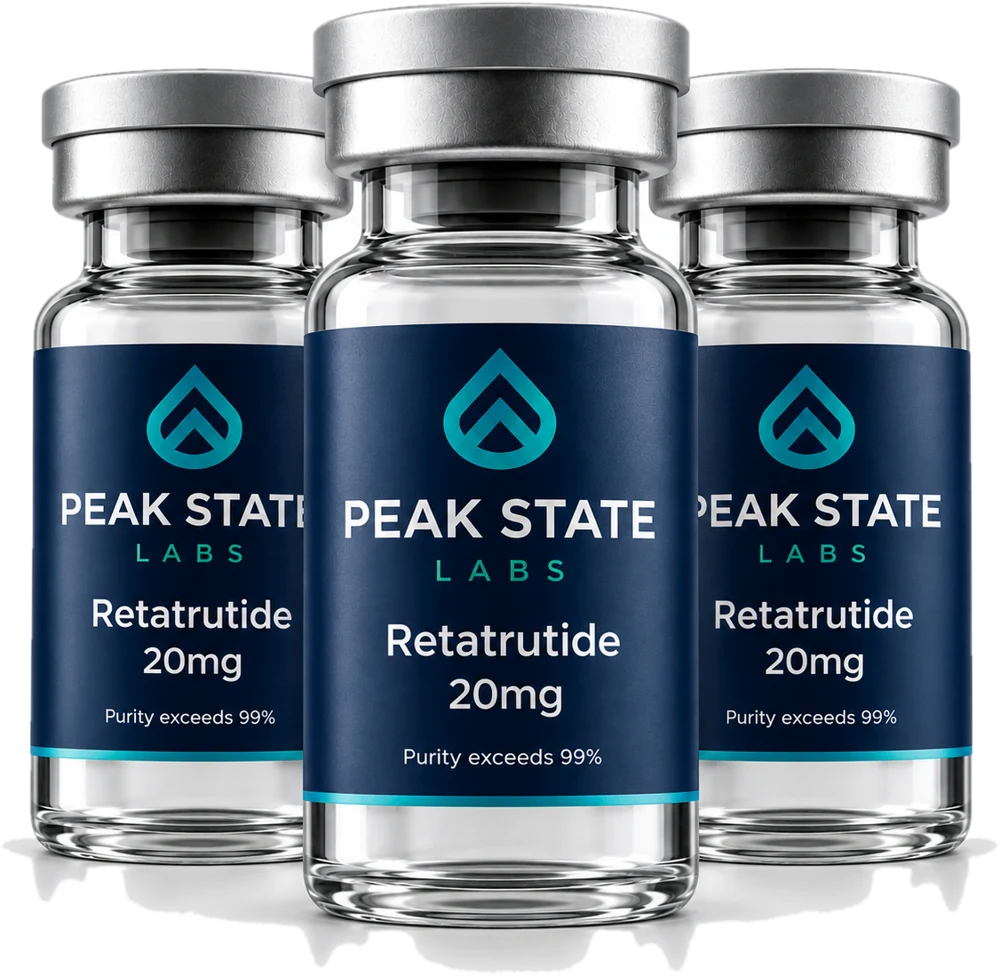
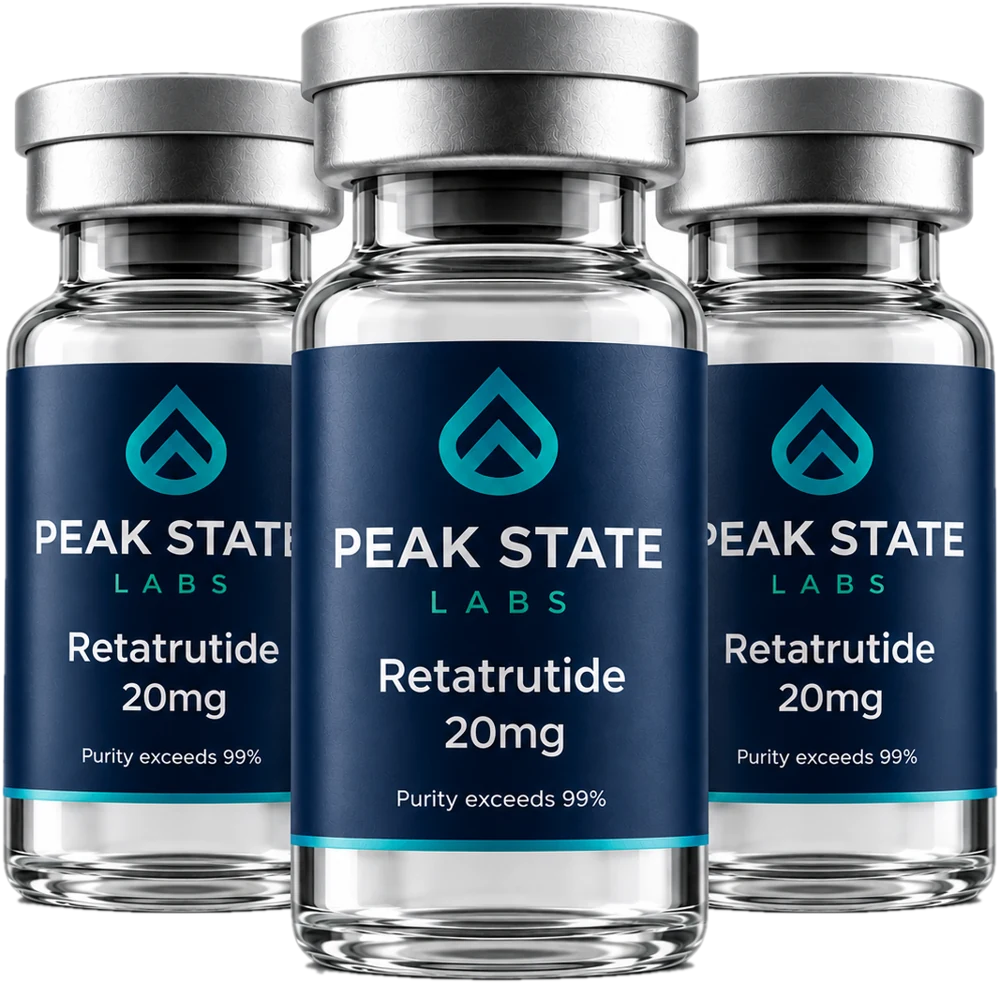
Sale polish: add-on pricing, weeks of supply, clean SHRED hero
- Add-on box: each product shows its regular vs sale price, plus "Normally
  $X — adds just $Y to your stack" and the tier bump it causes.
- Weeks of supply everywhere for non-Reta vials (1 vial = 5 weeks): stack
  sizes, add-ons, pillar cards, /buildyourstack, POWER CUT add-ons.
- Drop the redundant "together in one vial" note.
- POWER CUT tile reads "Up to 60% off · See the deal".
- SHRED hero: cut-out without the floor shadow.

Claude-Session: https://claude.ai/code/session_01PyqaBPZLjAM4nEpsBPAk2n

diff --git a/app/components/sale/StackBuyBox.tsx b/app/components/sale/StackBuyBox.tsx
@@ -4,17 +4,17 @@ import { useState } from "react";
 import { useCart } from "@/app/singles/cart/CartContext";
 import { CrossSellStrip } from "@/app/singles/cart/CrossSellStrip";
 import { formatUsd } from "@/app/lib/money";
-import { nextSaleStep, nextStepAction, SALE_NAME } from "@/app/lib/sale";
+import { nextSaleStep, nextStepAction, pctOff, SALE_NAME } from "@/app/lib/sale";
 import { useSaleStatus, type SaleStatus } from "@/app/lib/useSaleStatus";
 import { trackAddToCartInPostHog } from "@/app/lib/trackAddToCart";
 import {
   ADDONS,
-  IS_BLEND,
   SHORT_NAME,
   STACKS,
   addonProducts,
   linesFor,
   priceLines,
+  supplyFor,
   product,
   type AddonKey,
   type Line,
@@ -54,7 +54,13 @@ export function StackBuyBox({
   const next = sale.live
     ? nextSaleStep(lines.map((l) => ({ priceId: product(l.slug).priceId, quantity: l.quantity })))
     : null;
-  const addonPrice = priceLines(linesFor([], sets, extra), false).full;
+  // What the add-on really costs: the order with it minus the order without
+  // it (adding vials can also raise the discount on the rest of the stack).
+  const without = priceLines(linesFor(stack.items, sets), sale.live);
+  const withExtra = priceLines(linesFor(stack.items, sets, extra), sale.live);
+  const addonFull = priceLines(linesFor([], sets, extra), false).full;
+  const addsCents = withExtra.price - without.price;
+  const isSingleProduct = stack.items.length === 1;
 
   function addToCart() {
     for (const l of lines) {
@@ -148,7 +154,10 @@ export function StackBuyBox({
                       {s.label}
                     </span>
                     <span className="mt-0.5 block text-xs font-medium text-[var(--primary)]/55">
-                      {p.vials} vial{p.vials === 1 ? "" : "s"} · ~{s.supply}
+                      {isSingleProduct
+                        ? `${s.sets} vial${s.sets === 1 ? "" : "s"}`
+                        : `${s.sets} vial${s.sets === 1 ? "" : "s"} of each`}{" "}
+                      · lasts {s.supply}
                     </span>
                   </div>
                   <div className="flex flex-shrink-0 flex-col items-end text-right sm:mt-3 sm:items-start sm:text-left">
@@ -183,27 +192,46 @@ export function StackBuyBox({
               />
               <span className="flex-1">
                 <span className="block text-sm font-extrabold text-[var(--primary)]">
-                  {ADDONS[addon].emoji} Add for {ADDONS[addon].label.toLowerCase()}:
+                  {ADDONS[addon].emoji} Add for {ADDONS[addon].label.toLowerCase()}
                 </span>
-                <span className="mt-1.5 block space-y-1">
-                  {extra.map((e) => (
-                    <span key={e} className="block text-sm text-[var(--primary)]">
-                      <span className="mr-1.5 inline-block rounded-md bg-[var(--primary)] px-1.5 py-0.5 text-xs font-extrabold text-white">
-                        {sets} vial{sets === 1 ? "" : "s"}
-                      </span>
-                      <span className="font-bold">{SHORT_NAME[e]}</span>{" "}
-                      <span className="text-[var(--primary)]/60">({product(e).dose.replace(/ blend$/i, "")})</span>
-                      {IS_BLEND[e] && (
-                        <span className="block pl-0.5 text-xs font-semibold text-[var(--accent-dark)]">
-                          {IS_BLEND[e]}
+                <span className="block text-xs font-bold text-[var(--accent-dark)]">
+                  Lasts {supplyFor(extra[0], sets)}
+                  {extra.length > 1 ? ` · ${sets} vial${sets === 1 ? "" : "s"} of each` : ""}
+                </span>
+                <span className="mt-2 block space-y-1.5">
+                  {extra.map((e) => {
+                    const full = product(e).priceCents * sets;
+                    return (
+                      <span key={e} className="flex items-baseline justify-between gap-2 text-sm text-[var(--primary)]">
+                        <span>
+                          <span className="mr-1.5 inline-block rounded-md bg-[var(--primary)] px-1.5 py-0.5 text-xs font-extrabold text-white">
+                            {sets} vial{sets === 1 ? "" : "s"}
+                          </span>
+                          <span className="font-bold">{SHORT_NAME[e]}</span>{" "}
+                          <span className="text-[var(--primary)]/60">
+                            ({product(e).dose.replace(/ blend$/i, "")})
+                          </span>
                         </span>
-                      )}
-                    </span>
-                  ))}
+                        <span className="whitespace-nowrap tabular-nums">
+                          {withExtra.pct > 0 && (
+                            <span className="mr-1 text-xs text-[var(--primary)]/40 line-through">
+                              {formatUsd(full)}
+                            </span>
+                          )}
+                          <span className="font-extrabold">{formatUsd(pctOff(full, withExtra.pct))}</span>
+                        </span>
+                      </span>
+                    );
+                  })}
                 </span>
-                <span className="mt-1.5 block text-xs font-medium text-[var(--primary)]/65">
-                  {formatUsd(addonPrice)} before discount — and it pushes your
-                  whole order to a bigger discount.
+                <span className="mt-2.5 block rounded-xl bg-white px-3 py-2 text-sm text-[var(--primary)]">
+                  Normally <span className="line-through">{formatUsd(addonFull)}</span> — adds just{" "}
+                  <span className="font-extrabold text-emerald-700">{formatUsd(addsCents)}</span> to your stack
+                  {withExtra.pct > without.pct && (
+                    <span className="block text-xs font-semibold text-emerald-700">
+                      It also bumps your whole order from {without.pct}% to {withExtra.pct}% off.
+                    </span>
+                  )}
                 </span>
               </span>
             </label>

diff --git a/app/components/sale/StackPage.tsx b/app/components/sale/StackPage.tsx
@@ -17,11 +17,11 @@ import { formatUsd } from "@/app/lib/money";
 import { SALE_NAME } from "@/app/lib/sale";
 import { getSaleStatus } from "@/app/lib/salePhaseServer";
 import {
-  IS_BLEND,
   PRODUCT_CUTOUT,
   SHORT_NAME,
   STACKS,
   isAddonKey,
+  supplyFor,
   priceLines,
   linesFor,
   type StackSlug,
@@ -185,9 +185,9 @@ export async function StackPage({
                           </p>
                         )}
                         <h3 className="mt-1 text-xl font-bold text-[var(--primary)]">{SHORT_NAME[i]}</h3>
-                        {IS_BLEND[i] && (
-                          <p className="text-xs font-semibold text-[var(--accent-dark)]">{IS_BLEND[i]}</p>
-                        )}
+                        <p className="text-xs font-semibold text-[var(--primary)]/55">
+                          1 vial = {supplyFor(i, 1)} supply
+                        </p>
                         {role && (
                           <p className="mt-3 text-sm text-[var(--primary)]/75 leading-relaxed">{role.body}</p>
                         )}

diff --git a/app/buildyourstack/BuildYourStack.tsx b/app/buildyourstack/BuildYourStack.tsx
@@ -5,7 +5,7 @@ import { formatUsd } from "@/app/lib/money";
 import { LADDER, SALE_NAME, nextStepAction, priceCart } from "@/app/lib/sale";
 import { useSaleStatus, type SaleStatus } from "@/app/lib/useSaleStatus";
 import { trackAddToCartInPostHog } from "@/app/lib/trackAddToCart";
-import { product, type ProductSlug } from "@/app/lib/bfStacks";
+import { product, supplyFor, type ProductSlug } from "@/app/lib/bfStacks";
 import { useMembersGate } from "@/app/components/sale/MembersGate";
 
 const ORDER: ProductSlug[] = [
@@ -108,7 +108,7 @@ export function BuildYourStack({ initialSale }: { initialSale: SaleStatus }) {
                     </p>
                     <p className="text-lg font-bold text-[var(--primary)] leading-tight">{p.name}</p>
                     <p className="text-sm text-[var(--primary)]/55">
-                      {p.dose} · {p.price}
+                      {p.dose} · {p.price} · {supplyFor(slug, 1)} per vial
                     </p>
                   </div>
                 </div>

diff --git a/app/lib/bfStacks.ts b/app/lib/bfStacks.ts
@@ -287,11 +287,15 @@ export const ADDONS: Record<
   energy: { label: "Energy, focus and drive", products: ["nad"], emoji: "⚡" },
 };
 
-/** Blends hold two peptides in ONE vial — say so wherever it could confuse. */
-export const IS_BLEND: Partial<Record<ProductSlug, string>> = {
-  "bpc-tb500": "BPC-157 and TB-500 together in one vial",
-  "cjc-ipamorelin": "CJC-1295 and Ipamorelin together in one vial",
-};
+/**
+ * How long `vials` of a product last: 1 vial = 5 weeks for everything except
+ * Retatrutide (6–8 weeks per vial).
+ */
+export function supplyFor(slug: ProductSlug, vials: number): string {
+  return slug === "retatrutide"
+    ? `${6 * vials}–${8 * vials} weeks`
+    : `${5 * vials} week${vials === 1 ? "" : "s"}`;
+}
 
 export function isAddonKey(v: unknown): v is AddonKey {
   return typeof v === "string" && v in ADDONS;

diff --git a/app/components/sale/PowerCutAddonOffer.tsx b/app/components/sale/PowerCutAddonOffer.tsx
@@ -11,6 +11,7 @@ import {
   SHORT_NAME,
   isAddonKey,
   product,
+  supplyFor,
   type ProductSlug,
 } from "@/app/lib/bfStacks";
 
@@ -123,7 +124,7 @@ export function PowerCutAddonOffer({
                 <div className="min-w-0 flex-1">
                   <p className="text-xs font-bold uppercase tracking-wider text-[var(--accent)]">{p.label}</p>
                   <p className="font-extrabold">
-                    {SHORT_NAME[p.slug]} <span className="font-medium text-white/60">{prod.dose}</span>
+                    {SHORT_NAME[p.slug]} <span className="font-medium text-white/60">{prod.dose} · {supplyFor(p.slug, 1)} per vial</span>
                   </p>
                   <p className="text-sm tabular-nums">
                     <span className="mr-1.5 text-white/40 line-through">{prod.price}</span>

diff --git a/app/blackfriday/BlackFridayExperience.tsx b/app/blackfriday/BlackFridayExperience.tsx
@@ -193,9 +193,10 @@ export function BlackFridayExperience({
               >
                 <p className="text-xs font-extrabold uppercase tracking-wider">POWER CUT&trade;</p>
                 <p className="mt-1 text-3xl font-black">
-                  60% <span className="text-base font-extrabold">off</span>
+                  <span className="text-base font-extrabold">Up to </span>60%{" "}
+                  <span className="text-base font-extrabold">off</span>
                 </p>
-                <p className="text-[11px] font-bold">up to · see deal →</p>
+                <p className="text-[11px] font-bold">See the deal →</p>
               </a>
             </div>
             <p className="mt-4 text-center text-sm text-white/60">
